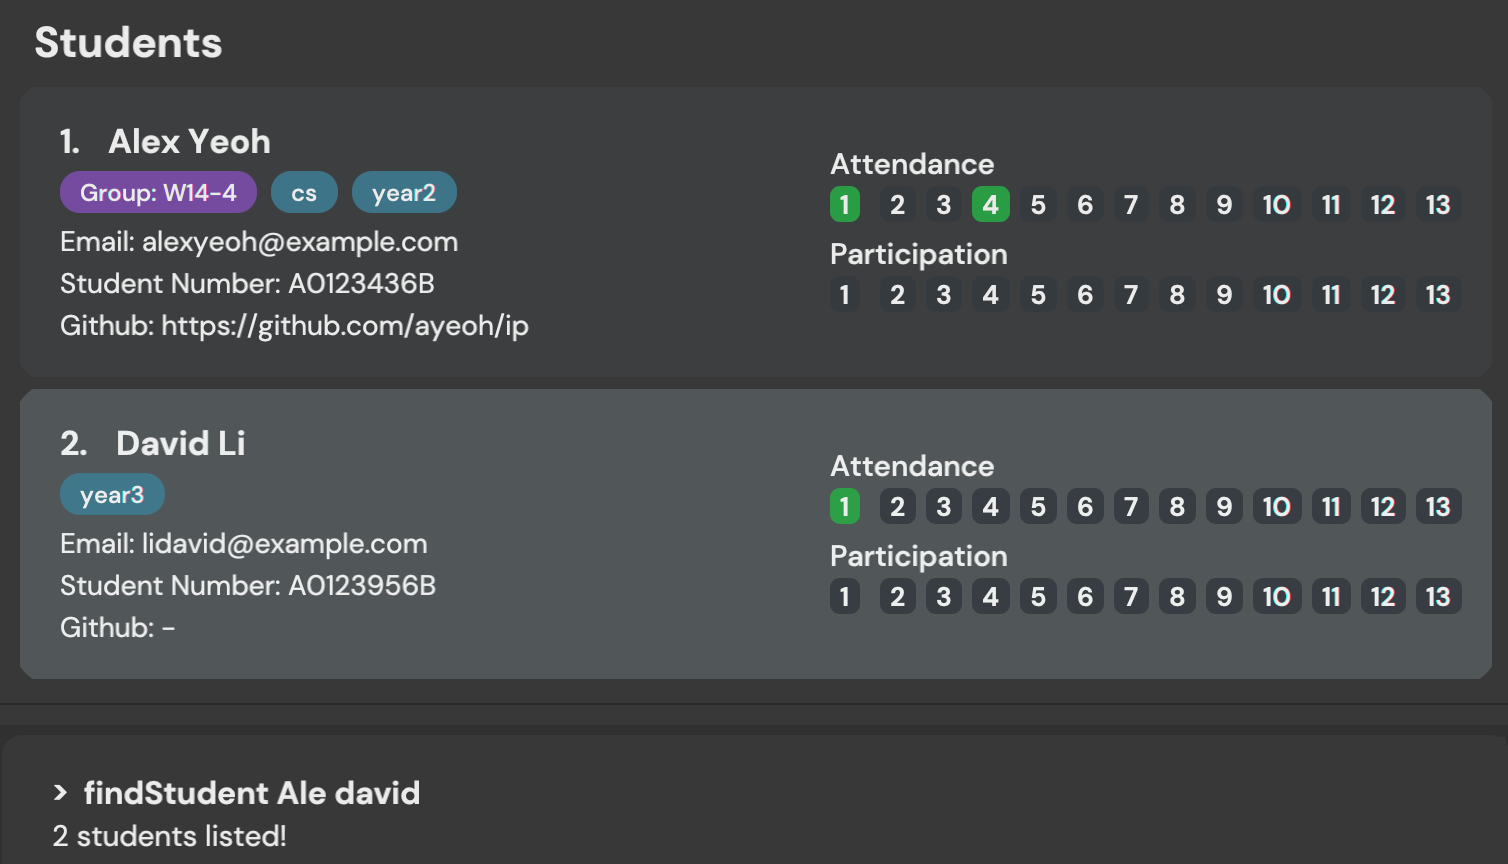
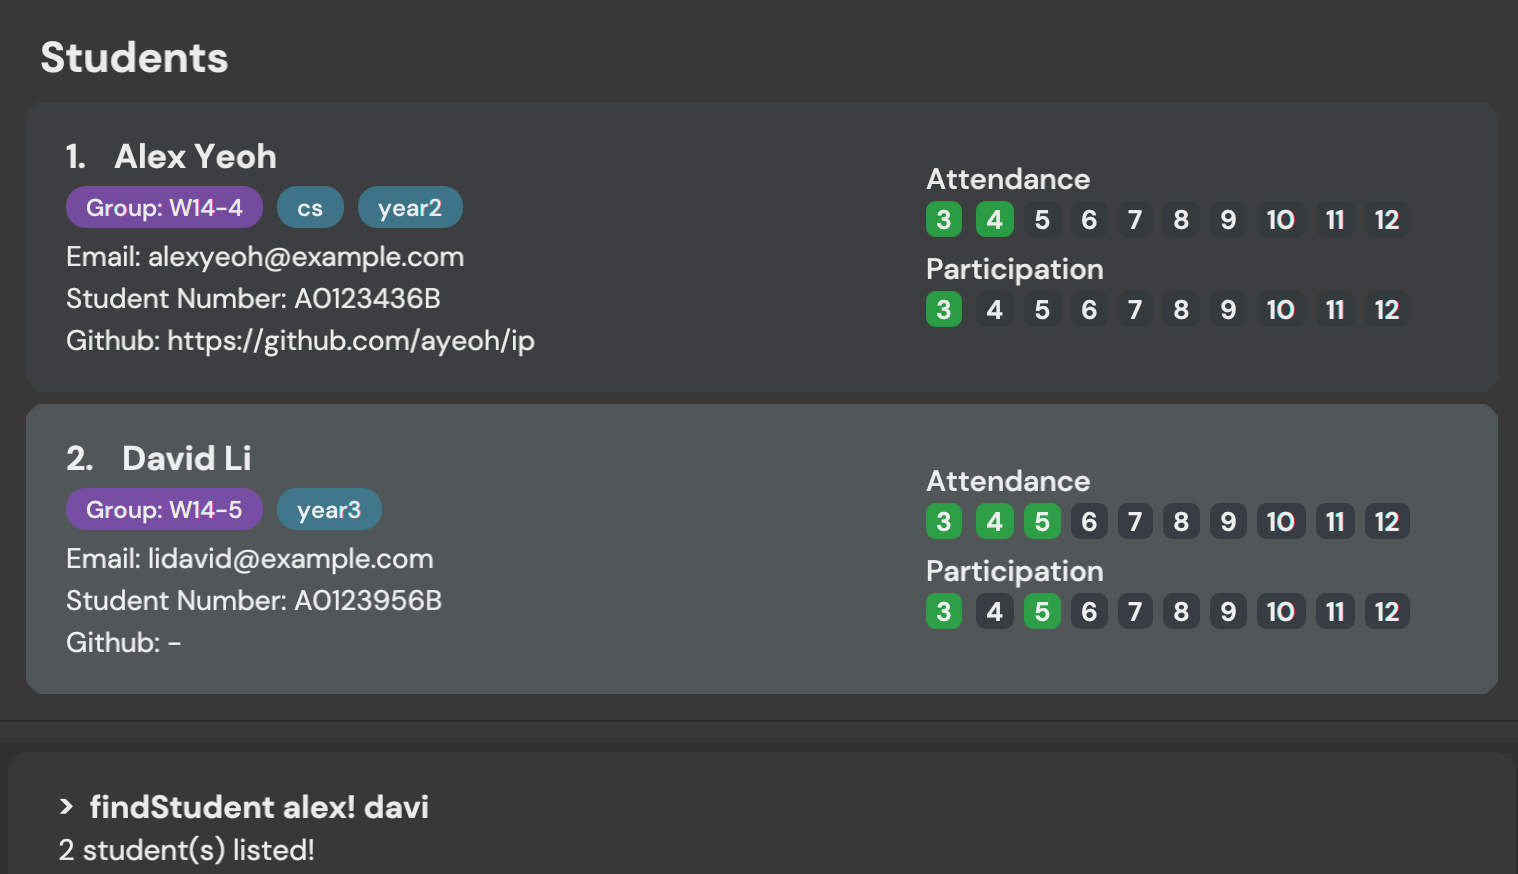
Update find commands

diff --git a/src/main/java/seedu/address/logic/commands/FindStudentCommand.java b/src/main/java/seedu/address/logic/commands/FindStudentCommand.java
@@ -16,8 +16,9 @@ public class FindStudentCommand extends Command {
 
     public static final String MESSAGE_USAGE = COMMAND_WORD + ": Finds all students whose names contain any of "
             + "the specified keywords (case-insensitive) and displays them as a list with index numbers.\n"
+            + "Note: Numbers and special characters are ignored, and partial names will be matched.\n"
             + "Parameters: KEYWORD [MORE_KEYWORDS]...\n"
-            + "Example: " + COMMAND_WORD + " alex bob charlie";
+            + "Example: " + COMMAND_WORD + " alex ber charlie";
 
     private final NameContainsKeywordsPredicate predicate;
 

diff --git a/src/main/java/seedu/address/logic/commands/FindGroupCommand.java b/src/main/java/seedu/address/logic/commands/FindGroupCommand.java
@@ -16,8 +16,9 @@ public class FindGroupCommand extends Command {
 
     public static final String MESSAGE_USAGE = COMMAND_WORD + ": Finds all groups whose names contain any of "
             + "the specified keywords (case-insensitive) and displays them as a list with index numbers.\n"
+            + "Note: * All special characters except dashes (-) will be ignored, and partial names will be matched.\n"
             + "Parameters: KEYWORD [MORE_KEYWORDS]...\n"
-            + "Example: " + COMMAND_WORD + " W14-4";
+            + "Example: " + COMMAND_WORD + " W14-4 W15";
 
     private final GroupContainsKeywordsPredicate predicate;
 

diff --git a/docs/UserGuide.md b/docs/UserGuide.md
@@ -167,7 +167,7 @@ Format: `findStudent KEYWORD [MORE_KEYWORDS]`
 * The search is case-insensitive. e.g `hans` will match `Hans`
 * The order of the keywords does not matter. e.g. `Hans Bo` will match `Bo Hans`
 * Only the name is searched.
-* Special characters will be ignored e.g. `Alice!` will match `Alice`
+* Numbers and special characters will be ignored e.g. `Alice!` will match `Alice`
 * Partial names will be matched e.g. `Han` will match `Hans`
 * Students matching at least one keyword will be returned (i.e. `OR` search).
   e.g. `Hans Bo` will return `Hans Gruber`, `Bo Yang`
@@ -273,7 +273,7 @@ Format: `findGroup KEYWORD [MORE_KEYWORDS]`
 * The search is case-insensitive. e.g `w14-4` will match `W14-4`
 * The order of the keywords does not matter. e.g. `w14 w15` will match `w15 w14`
 * Only the group name is searched.
-* Most special characters will be ignored e.g. `w14!` will match `w14` except dashes: `-`
+* All special characters except dashes (`-`) will be ignored e.g. `w14!` will match `w14`
 * Partial group names will be matched e.g. `w14` will match `w14-4`
 * Groups matching at least one keyword will be returned (i.e. `OR` search).
   e.g. `w14 w15` will return `w14-4`, `w14-3`, `w15-1`
@@ -281,7 +281,7 @@ Format: `findGroup KEYWORD [MORE_KEYWORDS]`
 Examples:
 * `findGroup w14` returns `W14-3` and `W14-4`
 * `findGroup w14 w15` returns `W14-3`, `W14-4`, `W15-2`<br>
-  ![result for 'find alex david'](images/findAlexDavidResult.png)
+  ![result for 'find group W14-4'](images/findGroupW14-4.png)
 
 
 ### Clearing all entries from group list: `clearGroups`
